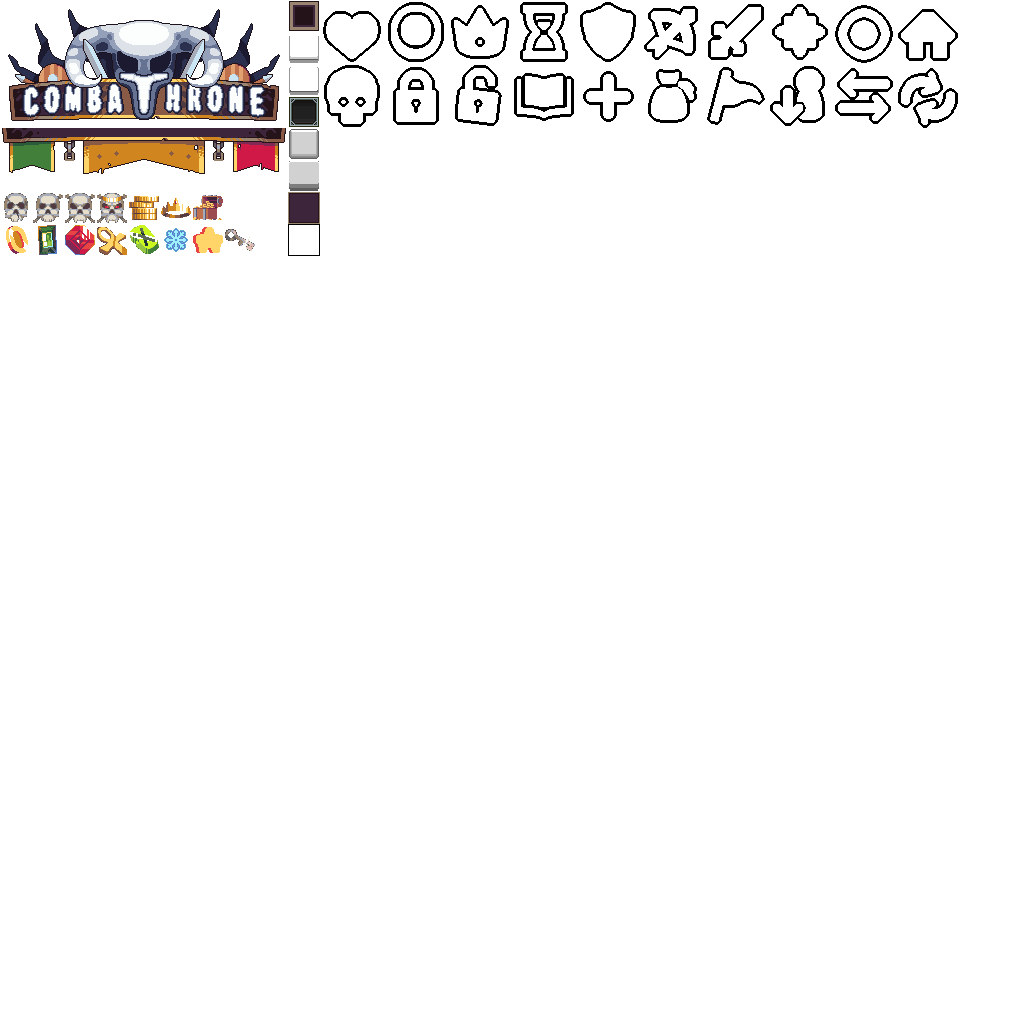
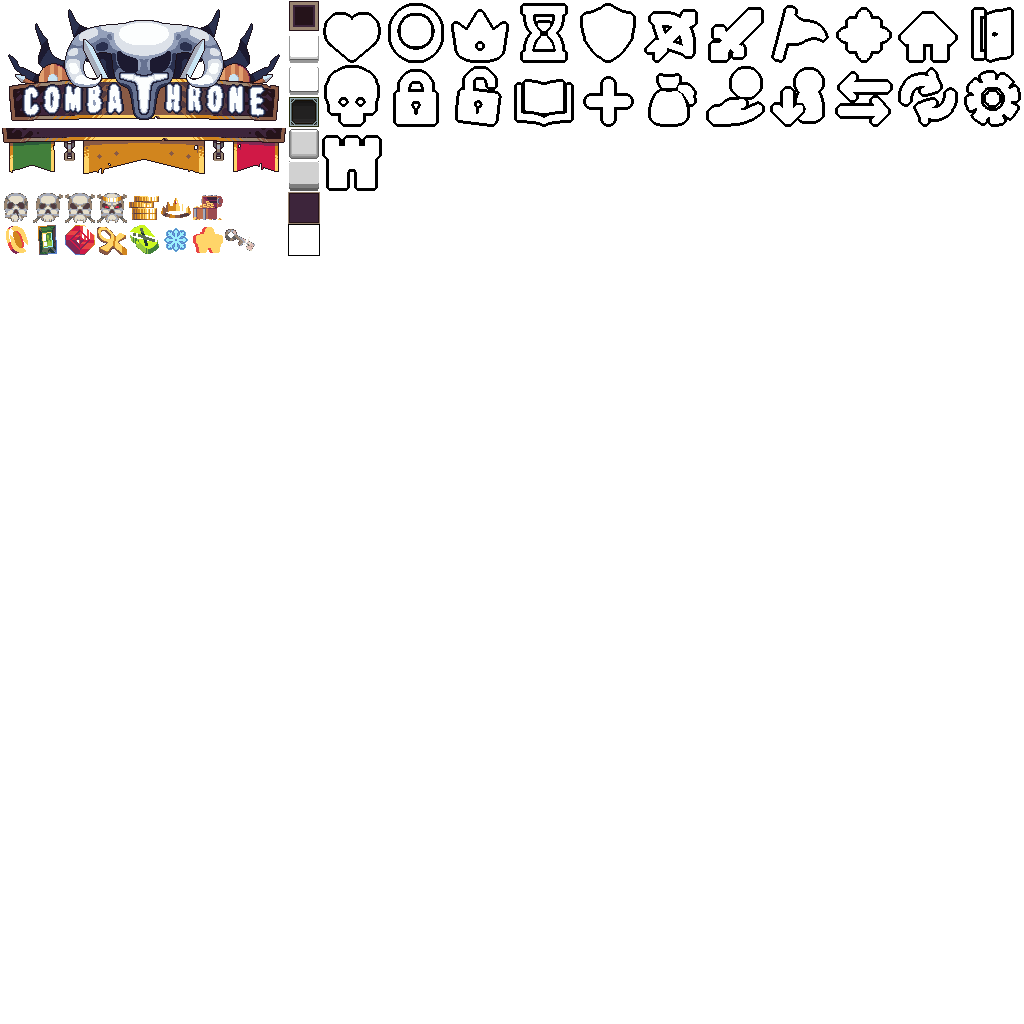
Many tweaks; Miner unit

diff --git a/game/character.go b/game/character.go
@@ -31,22 +31,20 @@ type Character struct {
 	Info, ActValueName string
 	RoleIcon           Icon
 	RoleName           string
-
-	Behavior func(self *Unit)
 }
 
 const CharMiner, CharCook, CharBowyer, CharDummy, CharCount CharacterKind = 0, 1, 2, 3, 4
 
 var Characters [4]*Character
 
-func NewCharacter(behavior func(self *Unit), origin ZoneKind, stats Stats, info string) *Character {
+func NewCharacter(origin ZoneKind, stats Stats, info string) *Character {
 	var roleIcons = [RoleCount]Icon{
-		IconMelee, IconRanged, IconTank, IconCollector, IconSupplier, IconGriefer}
+		IconSword, IconBow, IconShield, IconBag, IconHand, IconDebuff}
 	var roleNames = [RoleCount]string{"Melee", "Ranged", "Tank", "Collector", "Support", "Griefer"}
 	var actNames = [RoleCount]string{"damage", "damage", "block", "carry", "buff", "grief"}
 
 	return &Character{
-		Behavior: behavior, Stats: stats, Hitbox: geometry.NewRoundedRectangle(0, 7, 18, 35, 0, 1),
+		Stats: stats, Hitbox: geometry.NewRoundedRectangle(0, 7, 18, 35, 0, 1),
 		Sounds: CharSounds{HitFlesh: AudioHitFlesh, HitWood: AudioHitWood, HitMetal: AudioHitMetal},
 		Info:   info, ActValueName: actNames[stats.Role], RoleIcon: roleIcons[stats.Role], RoleName: roleNames[stats.Role],
 	}
@@ -55,21 +53,19 @@ func NewCharacter(behavior func(self *Unit), origin ZoneKind, stats Stats, info 
 func InitCharacters() {
 	var atlas = assets.LoadAtlas(assets.LoadImage("data/units.png"), "data/units.xml")
 
-	Characters[CharMiner] = NewCharacter(BehaviorMan, ZoneField, Stats{Name: "Miner", Wage: 20, Role: RoleFighter,
-		MaxHealth: 20, Speed: 30, ActValue: 2, ActTime: 15, ActRange: 1, RespawnTimer: 100},
-		"When close to a Woman:\n🌗🟪"+Tags[IconTimer]+"loses 0.5s rest⬜")
-
-	Characters[CharCook] = NewCharacter(BehaviorWoman, ZoneField, Stats{Name: "Cook", Wage: 10, Role: RoleSupport,
-		MaxHealth: 1, Speed: 20, ActValue: 1, ActTime: 18, ActRange: 1, RespawnTimer: 100},
-		"When in front of a Man:\n🌗🟨"+Tags[IconMove]+"gains 10 speed⬜")
-
-	Characters[CharDummy] = NewCharacter(BehaviorDummy, ZoneField, Stats{Name: "Dummy", Role: RoleTank,
+	Characters[CharDummy] = NewCharacter(ZoneField, Stats{Name: "Dummy", Role: RoleTank,
 		MaxHealth: 1, Speed: 0, ActValue: 0, ActTime: 0, ActRange: 0, RespawnTimer: 0},
-		"Cannot die.\nAlthough, it would like to.")
-
-	Characters[CharBowyer] = NewCharacter(BehaviorHunter, ZoneField, Stats{Name: "Bowyer", Wage: 40, Role: RoleRanger,
+		"Cannot 🟥"+Tags[IconSkull]+"die⬜. Even though it really wants to.")
+	Characters[CharDummy].Hitbox.Width += 4
+	Characters[CharMiner] = NewCharacter(ZoneField, Stats{Name: "Miner", Wage: 20, Role: RoleFighter,
+		MaxHealth: 20, Speed: 20, ActValue: 2, ActTime: 15, ActRange: 1, RespawnTimer: 100},
+		"Gains 🟥"+Tags[IconSword]+"8 damage⬜ against "+Tags[IconDoor]+"entrances.")
+	Characters[CharCook] = NewCharacter(ZoneField, Stats{Name: "Cook", Wage: 10, Role: RoleSupport,
+		MaxHealth: 1, Speed: 15, ActValue: 1, ActTime: 18, ActRange: 1, RespawnTimer: 100},
+		"When in front of a Man:\n🌗🟨"+Tags[IconLeftRight]+"gains 10 speed⬜")
+	Characters[CharBowyer] = NewCharacter(ZoneField, Stats{Name: "Bowyer", Wage: 40, Role: RoleRanger,
 		MaxHealth: 14, Speed: 15, ActValue: 4, ActTime: 20, ActRange: 6, RespawnTimer: 100},
-		"When not garrison: \n🟧"+Tags[IconRange]+"gains 2 range⬜")
+		"Gains 🟧"+Tags[IconRange]+"2 range⬜ when not garrison.")
 	Characters[CharBowyer].Sounds = CharSounds{ActTrigger: AudioBow, HitGround: AudioProjectileGround,
 		HitFlesh: AudioProjectileFlesh, HitWood: AudioProjectileWood, HitMetal: AudioProjectileMetal}
 

diff --git a/game/user-interface.go b/game/user-interface.go
@@ -35,30 +35,34 @@ const (
 	IconCoin
 	IconGlory
 	IconTimer
-	IconTank
-	IconRanged
-	IconMelee
-	IconMage
+	IconShield
+	IconBow
+	IconSword
+	IconFlag
 	IconRange
-	IconDeath
+	IconSkull
 	IconLocked
 	IconUnlocked
-	IconStory
-	IconHealer
-	IconCollector
-	IconSupplier
-	IconGriefer
-	IconMove
-	IconHome
-	IconRespawn
+	IconBook
+	IconPlus
+	IconBag
+	IconHand
+	IconDebuff
+	IconLeftRight
+	IconHouse
+	IconLoop
+	IconDoor
+	IconGear
+	IconTower
 	IconCount
 )
 
+// ①②③④⑤⑥⑦⑧⑨⑩⑪⑫⑬⑭⑮⑯⑰⑱⑲⑳⑴⑵⑶⑷⑸⑹⑺⑻⑼⑽⑾⑿⒀⒁⒂⒃⒄⒅⒆⒇⒈⒉⒊⒋⒌⒍⒎⒏⒐⒑⒒⒓⒔⒕⒖⒗⒘⒙⒚⒛
+// ⓐⓑⓒⓓⓔⓕⓖⓗⓘⓙⓚⓛⓜⓝⓞⓟⓠⓡⓢⓣⓤⓥⓦⓧⓨⓩⒶⒷⒸⒹⒺⒻⒼⒽⒾⒿⓀⓁⓂⓃⓄⓅⓆⓇⓈⓉⓊⓋⓌⓍⓎⓏ⓪⓫⓬⓭⓮⓯⓰⓱⓲⓳⓴
 var Tags = []string{
-	IconHealth: "~", IconCoin: "$", IconGlory: "*", IconDeath: "`", IconStory: "@", IconMove: ">", IconRange: "#",
-	IconTimer: "^", IconRespawn: "[", IconHome: "]",
-	IconMelee: "/", IconRanged: "<", IconHealer: "{", IconMage: "}", IconTank: ";", IconCollector: "\\", IconGriefer: "_",
-	IconSupplier: "=",
+	IconHealth: "①", IconCoin: "②", IconGlory: "③", IconSkull: "④", IconBook: "⑤", IconLeftRight: "⑥", IconRange: "⑦",
+	IconTimer: "⑧", IconLoop: "⑨", IconHouse: "⑩", IconSword: "⑪", IconBow: "⑫", IconPlus: "⑬", IconFlag: "⑭",
+	IconShield: "⑮", IconBag: "⑯", IconDebuff: "⑰", IconHand: "⑱", IconDoor: "⑲", IconGear: "⑳", IconTower: "⑴",
 }
 
 var ThemeUI assets.GUIThemeId
@@ -86,7 +90,7 @@ func NewHUD() *HUD {
 
 	TooltipLabel = new(graphics.NewTextbox(0, 0, 100, 100, 0))
 	TooltipLabel.Effects.FillColor, TooltipLabel.Effects.TextLineHeight = 0, 10
-	TooltipLabel.Effects.TextLineGap = -40
+	TooltipLabel.Effects.TextLineGap = -30
 	TooltipLabel.Effects.TextAlignX, TooltipLabel.Effects.TextAlignY = 0.5, 0.5
 
 	var btn = UserInterface.Crops("button")
@@ -157,7 +161,7 @@ func (h *HUD) PickupSlotPosition(slot int) (x, y float32) {
 }
 
 func (h *HUD) UpdateBack() {
-	const scale = 0.6
+	const scale = 0.9
 	h.View.Zoom = scale * 5
 
 	var tx, ty = h.View.PointFromEdge(0.5, 0)
@@ -325,7 +329,7 @@ func (h *HUD) drawBenchUnits(lastSummonIndex int) {
 		h.View.DrawImage(x+sz/2-iSz/2, y+sz/2-iSz/2, iSz, iSz, 0, roleIcon, tint, noMask)
 		if unit.State == StateDecaying {
 			var timerWidth = number.Map(unit.HurtTimer, 0, -float32(unit.Stats.RespawnTimer)/10, sz-2, 0)
-			var icon, col = IconRespawn, color.RGB(102, 102, 255)
+			var icon, col = IconLoop, color.RGB(102, 102, 255)
 
 			h.View.DrawShape(x, y, sz, sz, 0, 0, color.RGBA(0, 0, 0, 150), noMask)
 			h.View.DrawImage(x-sz/2+iSz/2, y+sz/2-iSz/2, iSz, iSz, 0, icons[icon], col, noMask)
@@ -336,7 +340,7 @@ func (h *HUD) drawBenchUnits(lastSummonIndex int) {
 			var hpWidth = number.Map(hp, 0, maxHp, 0, sz-2)
 			var icon, col = IconHealth, palette.Green
 			if hp == 0 {
-				icon, col = IconDeath, palette.Red
+				icon, col = IconSkull, palette.Red
 			}
 			h.View.DrawShape(x, y, sz, sz, 0, 0, color.RGBA(0, 0, 0, 150), noMask)
 			h.View.DrawImage(x-sz/2+iSz/2, y+sz/2-iSz/2, iSz, iSz, 0, icons[icon], col, noMask)
@@ -424,7 +428,7 @@ func (h *HUD) trySummon(lastSummonIndex int) {
 			takenGarrisons = append(takenGarrisons, pu.Lane)
 		}
 	}
-	if unit.Stats.ActRange > 1 {
+	if unit.Stats.ActRange > 1 && Bases[TeamAlly].Kind >= BaseFort {
 		var garrisonsFull = len(takenGarrisons) == 6
 		var garrisonX, garrisonY = PointAtCell(0.5, 4)
 		var shape = geometry.NewRectangle(garrisonX, garrisonY, size, size, 0)

diff --git a/game/unit.go b/game/unit.go
@@ -23,7 +23,6 @@ type Unit struct {
 	Character CharacterKind
 	Lane      Lane
 	Team      Team
-	Behavior  func(self *Unit)
 	Anim      *motion.Animation[assets.ImageId]
 	HealthBar *HealthBar
 	State     State
@@ -80,7 +79,7 @@ func NewUnit(character CharacterKind, team Team, lane Lane) *Unit {
 	var char = Characters[character]
 	var anim = motion.NewAnimation(0, false, char.Animations.Idle...)
 	var unit = Unit{Object: graphics.NewSprite(-2000, -2000, 1, 0), Character: character, Team: team, Lane: lane,
-		Behavior: char.Behavior, Anim: &anim, ActTimer: number.NaN(), HurtTimer: number.NaN(), LastState: StateWaitingToBeSummoned}
+		Anim: &anim, ActTimer: number.NaN(), HurtTimer: number.NaN(), LastState: StateWaitingToBeSummoned}
 
 	if team == TeamAlly {
 		unit.State = StateWaitingToBeSummoned
@@ -222,7 +221,7 @@ func (u *Unit) Update() {
 
 	if TimeScale > 0 {
 		u.applyState()
-		u.Behavior(u)
+		Behaviors[u.Character](u)
 		u.actUponState()
 		u.applyPhysics()
 		u.applyCollisions()
@@ -290,21 +289,21 @@ func (u *Unit) DrawTooltip(shape geometry.Shape, bench bool) {
 	if u.State == StateDecaying && u.HurtTimer > -float32(s.RespawnTimer)/10 {
 		respawnTimer = TooltipTexts[6].Set(number.Round(float32(s.RespawnTimer)/10+u.HurtTimer, 1), "/")
 	}
-	TooltipLabel.Shape = geometry.NewRectangle(x, y, width-16, height-12, 0)
+	TooltipLabel.Shape = geometry.NewRectangle(x, y, width-14, height-12, 0)
 	TooltipLabel.Effects.TextAlignX, TooltipLabel.Effects.TextAlignY = 0, 0.5
 	TooltipLabel.Text = TooltipTexts[7].Set(
 		"🟩", Tags[IconHealth], health1, b.MaxHealth, " health ", health2, "\n",
-		"🟨", Tags[IconMove], s.Speed, " speed ", speed, "\n",
+		"🟨", Tags[IconLeftRight], s.Speed, " speed ", speed, "\n",
 		"🟥", Tags[char.RoleIcon], s.ActValue, " ", char.ActValueName, " ", val, "\n",
 		"🟧", Tags[IconRange], s.ActRange, " range ", rng, "\n",
 		"🌗🟪", Tags[IconTimer], actTimer, number.Round(float32(b.ActTime)/10, 1), "s rest\n",
-		"🌗🟦", Tags[IconRespawn], respawnTimer, number.Round(float32(b.RespawnTimer)/10, 1), "s respawn\n",
+		"🌗🟦", Tags[IconLoop], respawnTimer, number.Round(float32(b.RespawnTimer)/10, 1), "s respawn\n",
 		"⬜", char.Info,
 	)
 	GameHUD.View.DrawObject(TooltipLabel)
 
 	TooltipLabel.Effects.TextAlignX, TooltipLabel.Effects.TextAlignY = 1, 1
-	TooltipLabel.Text = TooltipTexts[8].Set(s.Name, "\n", Tags[IconHome], Zones[char.Origin].Name, "\n",
+	TooltipLabel.Text = TooltipTexts[8].Set(s.Name, "\n", Tags[IconHouse], Zones[char.Origin].Name, "\n",
 		Tags[char.RoleIcon], char.RoleName, "\n\n\n")
 	GameHUD.View.DrawObject(TooltipLabel)
 
@@ -647,7 +646,8 @@ func (u *Unit) draw() {
 	u.ImageId, u.Width, u.Height = frame, crop.Width, crop.Height
 
 	if u.Health > 0 && !u.IsGarrisoner() {
-		DrawShadow(u.X, u.Z, u.Width*0.6, u.Height*0.1, 0, u.Mask)
+		var hb = u.Hitbox()
+		DrawShadow(u.X, u.Z, hb.Width, hb.Height*0.1, 0, u.Mask)
 	}
 
 	if u.Team == TeamEnemy {

diff --git a/game/scene.go b/game/scene.go
@@ -102,7 +102,7 @@ func InitScene() {
 	Player = NewPlayer()
 
 	Player.Units[0] = NewUnit(CharBowyer, TeamAlly, 0)
-	Player.Units[1] = NewUnit(CharBowyer, TeamAlly, 0)
+	Player.Units[1] = NewUnit(CharMiner, TeamAlly, 0)
 	// Player.Units[2] = NewUnit(CharCook, TeamAlly, 0)
 	// Player.Units[3] = NewUnit(CharMiner, TeamAlly, 0)
 }
@@ -123,17 +123,17 @@ func UpdateTitleScreen() {
 
 	gui.Scale = View.Zoom
 	var hud = gui.AreaHUD(0.5, 1, 0, 0)
-	gui.Button("@ Story Mode", geometry.NewArea(hud.X, hud.Y-TileSize*5.5, 120, 28), geometry.Area{}, ThemeUI, true)
+	gui.Button(storyMode, geometry.NewArea(hud.X, hud.Y-TileSize*5.5, 120, 28), geometry.Area{}, ThemeUI, true)
 	if gui.IsJustClicked() {
 		InGame = true
 		PlayAmbience(CurrentZone.Kind)
 	}
-	gui.Button("* Arena Mode", geometry.NewArea(hud.X, hud.Y-TileSize*4.5, 120, 28), geometry.Area{}, ThemeUI, false)
+	gui.Button(arenaMode, geometry.NewArea(hud.X, hud.Y-TileSize*4.5, 120, 28), geometry.Area{}, ThemeUI, false)
 	if gui.IsFocused() {
 		mouse.SetCursor(cursor.NotAllowed)
 	}
-	gui.Button("Settings", geometry.NewArea(hud.X, hud.Y-TileSize*3, 100, 28), geometry.Area{}, ThemeUI, true)
-	gui.Button("Exit", geometry.NewArea(hud.X, hud.Y-TileSize*2, 100, 28), geometry.Area{}, ThemeUI, true)
+	gui.Button(settings, geometry.NewArea(hud.X, hud.Y-TileSize*3, 100, 28), geometry.Area{}, ThemeUI, true)
+	gui.Button(exit, geometry.NewArea(hud.X, hud.Y-TileSize*2, 100, 28), geometry.Area{}, ThemeUI, true)
 	if gui.IsJustClicked() {
 		window.Close()
 	}
@@ -225,6 +225,8 @@ func DeltaTimeScaled() float32 {
 var highlightCursorColors = map[int]uint{
 	cursor.Arrow: palette.LightGray, cursor.Hand: palette.White, cursor.NotAllowed: palette.Red,
 }
+var storyMode, arenaMode = Tags[IconBook] + "Story Mode", Tags[IconTower] + "Arena Mode"
+var settings, exit = Tags[IconGear] + "Settings", Tags[IconDoor] + "Exit"
 
 func mirrorGarrisonLanes() {
 	for i := LaneGarrison1; i < LaneGarrisonPlus3+1; i++ {

diff --git a/game/behaviors.go b/game/behaviors.go
@@ -1,36 +1,27 @@
 package game
 
-import (
-	"pure-game-kit/packages/input/keyboard"
-	"pure-game-kit/packages/input/keyboard/key"
-)
-
-func BehaviorMan(self *Unit) {
-}
-
-func BehaviorWoman(self *Unit) {
-	if keyboard.IsKeyJustPressed(key.A) {
-		self.VelocityX = 0
-		self.State = StateActStart
-	}
-}
-
-func BehaviorHunter(self *Unit) {
-	if self.State == StateSummoned {
-		if !self.IsGarrisoner() {
-			self.Stats.ActRange += 2
+var Behaviors = map[CharacterKind]func(self *Unit){
+	CharDummy: func(self *Unit) {
+		switch self.State {
+		case StateDyingStart:
+			self.State = StateIdling
+			self.Health = 1
+		case StateSummoned:
+			self.X, self.Y = TileSize*5, -TileSize*6
+		case StateWalking:
+			self.State = StateIdling
 		}
-	}
-}
+	},
+	CharMiner: func(self *Unit) {
 
-func BehaviorDummy(self *Unit) {
-	switch self.State {
-	case StateDyingStart:
-		self.State = StateIdling
-		self.Health = 1
-	case StateSummoned:
-		self.X, self.Y = TileSize*5, -TileSize*6
-	case StateWalking:
-		self.State = StateIdling
-	}
+	},
+	CharCook: func(self *Unit) {
+	},
+	CharBowyer: func(self *Unit) {
+		if self.State == StateSummoned {
+			if !self.IsGarrisoner() {
+				self.Stats.ActRange += 2
+			}
+		}
+	},
 }

diff --git a/game/pickup.go b/game/pickup.go
@@ -53,14 +53,13 @@ func NewPickup(x float32, kind PickupKind, lane Lane) *Pickup {
 		data.Description = "Gives you 🟨" + Tags[IconCoin] + "10 coins⬜.\nNot bad for a single coin, eh?"
 		data.Effect = func() { Player.Coins += 10 }
 	case PickupGem:
-		data.Description = "🟩" + Tags[IconHealth] + "Doubles health⬜ of all your units."
+		data.Description = "All of your units gain\n🟩" + Tags[IconHealth] + "double health⬜."
 	case PickupCrystal:
-		data.Description = "🟥" + Tags[IconMelee] + Tags[IconRanged] + Tags[IconTank] + Tags[IconMage] +
-			Tags[IconHealer] + Tags[IconCollector] + Tags[IconSupplier] + Tags[IconGriefer] +
-			"\nDoubles action points\n" +
-			"⬜of all your units."
+		data.Description = "All of your units gain\n🟥" + Tags[IconSword] + Tags[IconBow] + Tags[IconShield] +
+			Tags[IconBag] + Tags[IconHand] + Tags[IconDebuff] +
+			"\ndouble action points⬜."
 	case PickupRelic:
-		data.Description = "Revives all 🟥" + Tags[IconDeath] +
+		data.Description = "Revives all 🟥" + Tags[IconSkull] +
 			"dead⬜ units and gives them 🟩" + Tags[IconHealth] + "full health⬜."
 	case PickupRune:
 		data.Description = "Prevents any enemy units from appearing for 20s."

diff --git a/game/base.go b/game/base.go
@@ -44,7 +44,7 @@ func NewBase(team Team, kind BaseKind, garrison Garrison, entrances [3]EntranceK
 
 	var x, y = PointAtCell(14, 5.5)
 	if team == TeamAlly {
-		x, _ = PointAtCell(3, 5.5)
+		x, y = PointAtCell(3, 6)
 	}
 
 	var flag = graphics.NewSprite(x, y, 1, 0)
@@ -113,9 +113,10 @@ func (b *Base) UpdateBack() {
 	b.FlagAnim.Frames = CurrentZone.FlagFrames
 	if b.Team == TeamAlly {
 		b.FlagAnim.Frames = Decor.Crops("flag-player")
+		b.FlagAnim.FPS = 6
 	} else {
 		if CurrentZone.Kind == ZoneDocks {
-			x, y = PointAtCell(13.85, -0.15)
+			x, y = PointAtCell(13.85, 0.31)
 			b.FlagAnim.FPS = 5
 		} else {
 			x, y = PointAtCell(14, 5.5)
@@ -124,6 +125,7 @@ func (b *Base) UpdateBack() {
 	}
 	b.Flag.X, b.Flag.Y = x, y
 	b.FlagAnim.TimeScale = TimeScale * CurrentZone.WindSpeed
+
 	var frame = b.FlagAnim.Frame()
 	var crop = frame.CropArea()
 	b.Flag.ImageId, b.Flag.Width, b.Flag.Height = frame, crop.Width, crop.Height

diff --git a/game/health-bar.go b/game/health-bar.go
@@ -91,7 +91,7 @@ func (hb *HealthBar) Update(target geometry.Shape, health, maxHealth int, mask g
 	}
 
 	var border float32 = 2
-	hb.Background.X, hb.Background.Y = target.X, target.Y-target.Height/2
+	hb.Background.X, hb.Background.Y = target.X, target.Y-target.Height/2-4
 
 	hb.Fill.Width = number.Map(float32(max(health, 0)), 0, float32(maxHealth), 0, hb.Background.Width-border)
 	hb.Fill.Height = hb.Background.Height - border
